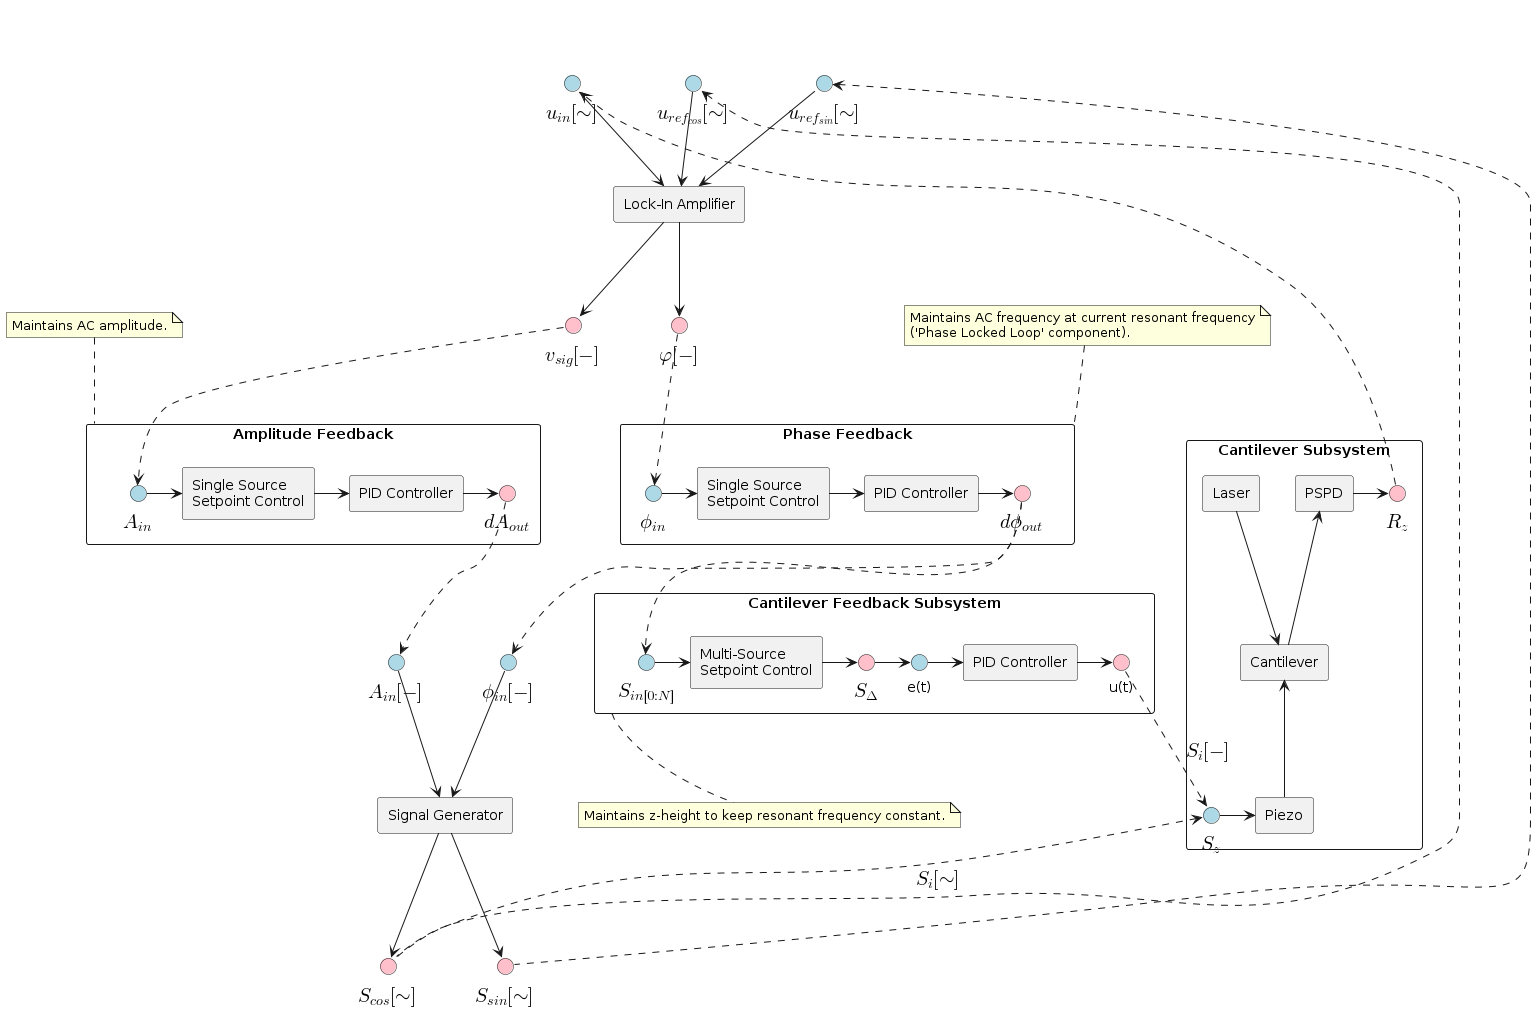
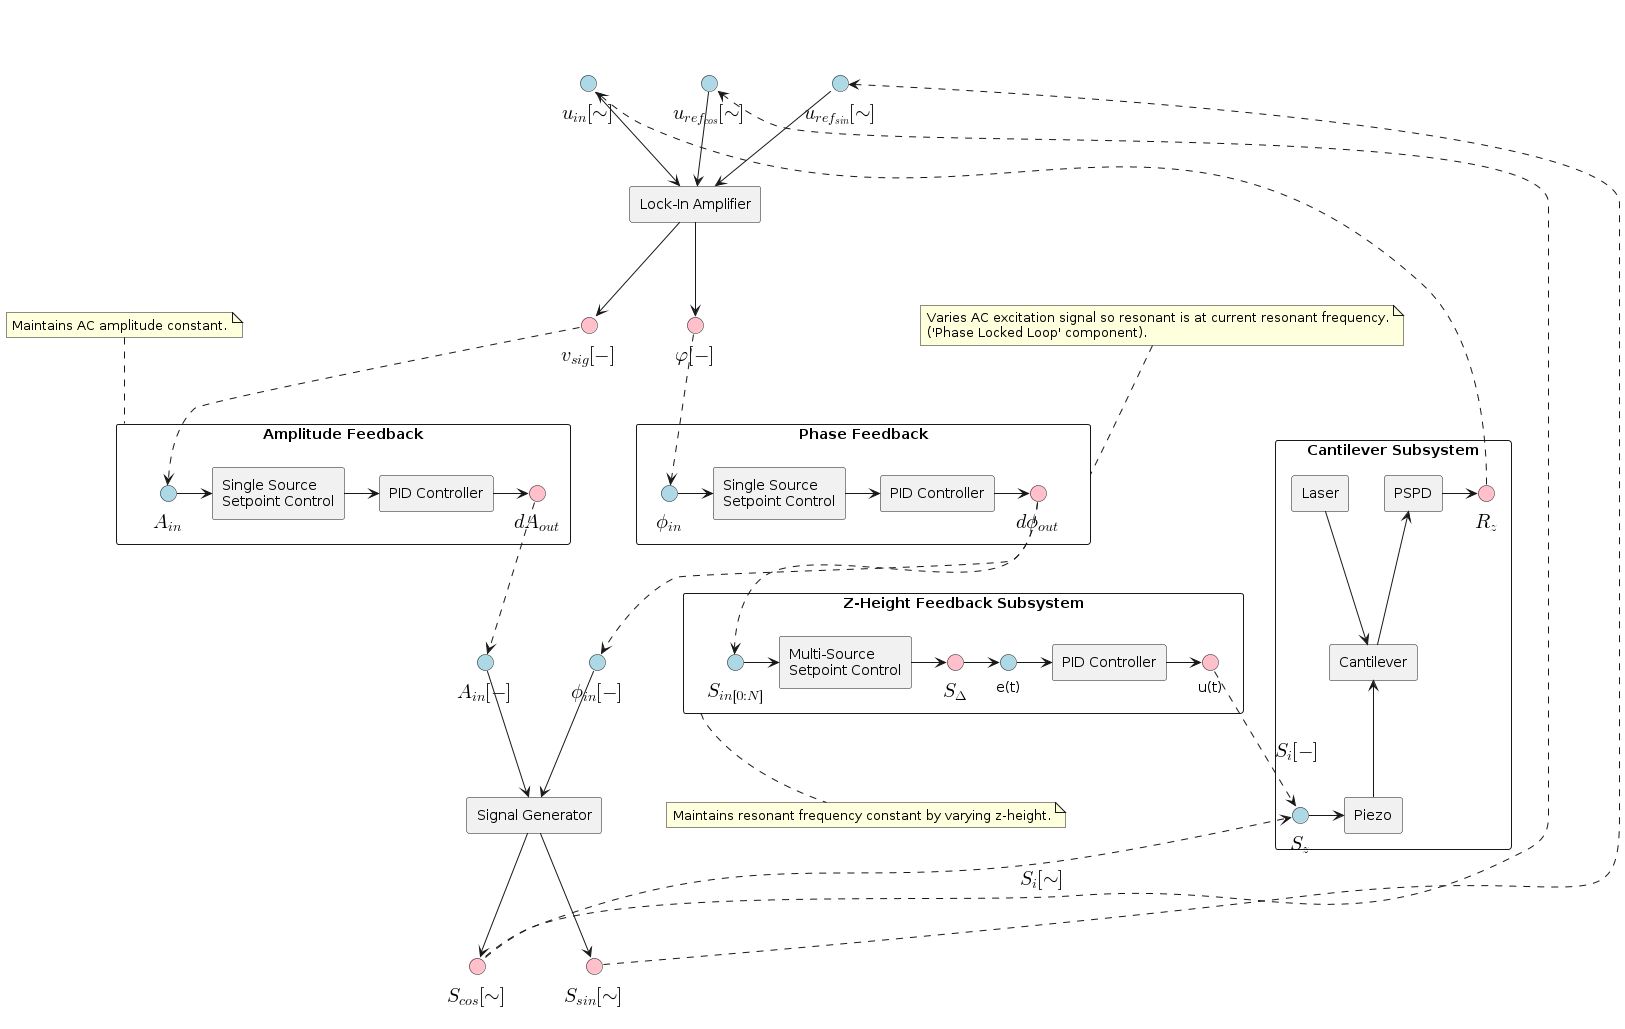
[fix] Fix erroneous am-afm / fm-afm diagrams
After discussing with Wyatt at the lab, I realized that my
diagrams explaining am-afm and fm-afm are factually incorrect!

I have updated the diagrams accordingly.

Note also that afm_components.puml/png and contact_mode.png are changed,
as I renamed 'Cantilever Feedback Subsystem' to 'Z-Height Feedback
Subsystem',to be more explicit.

diff --git a/afm_spm_components/afm_spm_components.html b/afm_spm_components/afm_spm_components.html
@@ -3,7 +3,7 @@
 "http://www.w3.org/TR/xhtml1/DTD/xhtml1-strict.dtd">
 <html xmlns="http://www.w3.org/1999/xhtml" lang="en" xml:lang="en">
 <head>
-<!-- 2023-06-21 Wed 19:12 -->
+<!-- 2023-06-23 Fri 12:33 -->
 <meta http-equiv="Content-Type" content="text/html;charset=utf-8" />
 <meta name="viewport" content="width=device-width, initial-scale=1" />
 <title>AFM / SPM Components</title>
@@ -201,81 +201,81 @@
 <h2>Table of Contents</h2>
 <div id="text-table-of-contents" role="doc-toc">
 <ul>
-<li><a href="#org0d700a4">1. Overarching Diagram</a></li>
-<li><a href="#orgb31a342">2. Components</a>
+<li><a href="#orgd0c9f6c">1. Overarching Diagram</a></li>
+<li><a href="#org10e9f7b">2. Components</a>
 <ul>
-<li><a href="#org98d6e2f">2.1. Main Hardware</a>
+<li><a href="#org564ba27">2.1. Main Hardware</a>
 <ul>
-<li><a href="#org8c6b0eb">2.1.1. Cantilever Subsystem</a></li>
-<li><a href="#orgced6271">2.1.2. Scanning Subsystem</a></li>
+<li><a href="#orgdcdb55a">2.1.1. Cantilever Subsystem</a></li>
+<li><a href="#org00f0527">2.1.2. Scanning Subsystem</a></li>
 </ul>
 </li>
-<li><a href="#org916ba15">2.2. Dynamic Mode Components</a>
+<li><a href="#orgbf97ab6">2.2. Dynamic Mode Components</a>
 <ul>
-<li><a href="#org9d37b53">2.2.1. Signal Generator</a></li>
-<li><a href="#orgba023c9">2.2.2. Lock-In Amplifier</a></li>
+<li><a href="#org85e1187">2.2.1. Signal Generator</a></li>
+<li><a href="#orgd804b80">2.2.2. Lock-In Amplifier</a></li>
 </ul>
 </li>
-<li><a href="#org2e6e4f8">2.3. Feedback Subsystem</a>
+<li><a href="#orge288b0b">2.3. Feedback Subsystem</a>
 <ul>
-<li><a href="#org7678f9c">2.3.1. Multi-Source Setpoint Control</a></li>
-<li><a href="#org5351966">2.3.2. PID Controller</a></li>
-</ul>
-</li>
-</ul>
-</li>
-<li><a href="#orgd86ce3a">3. AFM / SPM Setups</a>
-<ul>
-<li><a href="#org90de4bc">3.1. Contact Modes</a></li>
-<li><a href="#org46f7e98">3.2. Dynamic Modes</a>
-<ul>
-<li><a href="#orgdd3279a">3.2.1. AM-AFM - Amplitude Modulation</a></li>
-<li><a href="#orgf3f31a3">3.2.2. FM-AFM - Frequency Modulation</a></li>
+<li><a href="#org8a05077">2.3.1. Multi-Source Setpoint Control</a></li>
+<li><a href="#orgaa43725">2.3.2. PID Controller</a></li>
 </ul>
 </li>
 </ul>
 </li>
-<li><a href="#org1f853e4">4. Full Table of Parameters</a></li>
+<li><a href="#orgc2e8da6">3. AFM / SPM Setups</a>
+<ul>
+<li><a href="#orgcfc93e1">3.1. Contact Modes</a></li>
+<li><a href="#orgf2b986a">3.2. Dynamic Modes</a>
+<ul>
+<li><a href="#org5e3a853">3.2.1. AM-AFM - Amplitude Modulation</a></li>
+<li><a href="#org21d4ded">3.2.2. FM-AFM - Frequency Modulation</a></li>
+</ul>
+</li>
+</ul>
+</li>
+<li><a href="#orgf58a64f">4. Full Table of Parameters</a></li>
 </ul>
 </div>
 </div>
 
-<div id="outline-container-org0d700a4" class="outline-2">
-<h2 id="org0d700a4"><span class="section-number-2">1.</span> Overarching Diagram</h2>
+<div id="outline-container-orgd0c9f6c" class="outline-2">
+<h2 id="orgd0c9f6c"><span class="section-number-2">1.</span> Overarching Diagram</h2>
 <div class="outline-text-2" id="text-1">
 
-<div id="org719dade" class="figure">
-<p><img src="images/afm_components.png" alt="afm_components.png" width="1200" />
+<div id="orgee8eb64" class="figure">
+<p><img src="images/afm_components.png" alt="afm_components.png" width="960" />
 </p>
 </div>
 </div>
 </div>
 
-<div id="outline-container-orgb31a342" class="outline-2">
-<h2 id="orgb31a342"><span class="section-number-2">2.</span> Components</h2>
+<div id="outline-container-org10e9f7b" class="outline-2">
+<h2 id="org10e9f7b"><span class="section-number-2">2.</span> Components</h2>
 <div class="outline-text-2" id="text-2">
 </div>
-<div id="outline-container-org98d6e2f" class="outline-3">
-<h3 id="org98d6e2f"><span class="section-number-3">2.1.</span> Main Hardware</h3>
+<div id="outline-container-org564ba27" class="outline-3">
+<h3 id="org564ba27"><span class="section-number-3">2.1.</span> Main Hardware</h3>
 <div class="outline-text-3" id="text-2-1">
 </div>
-<div id="outline-container-org8c6b0eb" class="outline-4">
-<h4 id="org8c6b0eb"><span class="section-number-4">2.1.1.</span> Cantilever Subsystem</h4>
+<div id="outline-container-orgdcdb55a" class="outline-4">
+<h4 id="orgdcdb55a"><span class="section-number-4">2.1.1.</span> Cantilever Subsystem</h4>
 <div class="outline-text-4" id="text-2-1-1">
 </div>
-<div id="outline-container-orge339fdb" class="outline-5">
-<h5 id="orge339fdb"><span class="section-number-5">2.1.1.1.</span> Diagram</h5>
+<div id="outline-container-org2e189e4" class="outline-5">
+<h5 id="org2e189e4"><span class="section-number-5">2.1.1.1.</span> Diagram</h5>
 <div class="outline-text-5" id="text-2-1-1-1">
 
-<div id="orge7ebd4b" class="figure">
+<div id="org5f32578" class="figure">
 <p><img src="images/cantilever_subsystem.png" alt="cantilever_subsystem.png" />
 </p>
 </div>
 </div>
 </div>
 
-<div id="outline-container-org718eeb4" class="outline-5">
-<h5 id="org718eeb4"><span class="section-number-5">2.1.1.2.</span> Parameters</h5>
+<div id="outline-container-org6af0c4c" class="outline-5">
+<h5 id="org6af0c4c"><span class="section-number-5">2.1.1.2.</span> Parameters</h5>
 <div class="outline-text-5" id="text-2-1-1-2">
 <table border="2" cellspacing="0" cellpadding="6" rules="groups" frame="hsides">
 
@@ -353,23 +353,23 @@
 </div>
 </div>
 
-<div id="outline-container-orgced6271" class="outline-4">
-<h4 id="orgced6271"><span class="section-number-4">2.1.2.</span> Scanning Subsystem</h4>
+<div id="outline-container-org00f0527" class="outline-4">
+<h4 id="org00f0527"><span class="section-number-4">2.1.2.</span> Scanning Subsystem</h4>
 <div class="outline-text-4" id="text-2-1-2">
 </div>
-<div id="outline-container-org5f39cac" class="outline-5">
-<h5 id="org5f39cac"><span class="section-number-5">2.1.2.1.</span> Diagram</h5>
+<div id="outline-container-org945f708" class="outline-5">
+<h5 id="org945f708"><span class="section-number-5">2.1.2.1.</span> Diagram</h5>
 <div class="outline-text-5" id="text-2-1-2-1">
 
-<div id="org85af68c" class="figure">
+<div id="orge14c415" class="figure">
 <p><img src="images/scanning_subsystem.png" alt="scanning_subsystem.png" />
 </p>
 </div>
 </div>
 </div>
 
-<div id="outline-container-org83b5746" class="outline-5">
-<h5 id="org83b5746"><span class="section-number-5">2.1.2.2.</span> Parameters</h5>
+<div id="outline-container-orgf3bb041" class="outline-5">
+<h5 id="orgf3bb041"><span class="section-number-5">2.1.2.2.</span> Parameters</h5>
 <div class="outline-text-5" id="text-2-1-2-2">
 <table border="2" cellspacing="0" cellpadding="6" rules="groups" frame="hsides">
 
@@ -490,27 +490,27 @@
 </div>
 </div>
 </div>
-<div id="outline-container-org916ba15" class="outline-3">
-<h3 id="org916ba15"><span class="section-number-3">2.2.</span> Dynamic Mode Components</h3>
+<div id="outline-container-orgbf97ab6" class="outline-3">
+<h3 id="orgbf97ab6"><span class="section-number-3">2.2.</span> Dynamic Mode Components</h3>
 <div class="outline-text-3" id="text-2-2">
 </div>
-<div id="outline-container-org9d37b53" class="outline-4">
-<h4 id="org9d37b53"><span class="section-number-4">2.2.1.</span> Signal Generator</h4>
+<div id="outline-container-org85e1187" class="outline-4">
+<h4 id="org85e1187"><span class="section-number-4">2.2.1.</span> Signal Generator</h4>
 <div class="outline-text-4" id="text-2-2-1">
 </div>
-<div id="outline-container-orgaa4485c" class="outline-5">
-<h5 id="orgaa4485c"><span class="section-number-5">2.2.1.1.</span> Diagram</h5>
+<div id="outline-container-org6f672f8" class="outline-5">
+<h5 id="org6f672f8"><span class="section-number-5">2.2.1.1.</span> Diagram</h5>
 <div class="outline-text-5" id="text-2-2-1-1">
 
-<div id="orgaff490b" class="figure">
+<div id="org362a52f" class="figure">
 <p><img src="images/signal_generator.png" alt="signal_generator.png" />
 </p>
 </div>
 </div>
 </div>
 
-<div id="outline-container-orgd250c5f" class="outline-5">
-<h5 id="orgd250c5f"><span class="section-number-5">2.2.1.2.</span> Parameters</h5>
+<div id="outline-container-orgd223b86" class="outline-5">
+<h5 id="orgd223b86"><span class="section-number-5">2.2.1.2.</span> Parameters</h5>
 <div class="outline-text-5" id="text-2-2-1-2">
 <table border="2" cellspacing="0" cellpadding="6" rules="groups" frame="hsides">
 
@@ -545,23 +545,23 @@
 </div>
 </div>
 
-<div id="outline-container-orgba023c9" class="outline-4">
-<h4 id="orgba023c9"><span class="section-number-4">2.2.2.</span> Lock-In Amplifier</h4>
+<div id="outline-container-orgd804b80" class="outline-4">
+<h4 id="orgd804b80"><span class="section-number-4">2.2.2.</span> Lock-In Amplifier</h4>
 <div class="outline-text-4" id="text-2-2-2">
 </div>
-<div id="outline-container-org71312d3" class="outline-5">
-<h5 id="org71312d3"><span class="section-number-5">2.2.2.1.</span> Diagram</h5>
+<div id="outline-container-orgc4c8b99" class="outline-5">
+<h5 id="orgc4c8b99"><span class="section-number-5">2.2.2.1.</span> Diagram</h5>
 <div class="outline-text-5" id="text-2-2-2-1">
 
-<div id="org0c1aa44" class="figure">
+<div id="org87cbe02" class="figure">
 <p><img src="images/lockin.png" alt="lockin.png" />
 </p>
 </div>
 </div>
 </div>
 
-<div id="outline-container-orgd59cda9" class="outline-5">
-<h5 id="orgd59cda9"><span class="section-number-5">2.2.2.2.</span> Parameters</h5>
+<div id="outline-container-org953baa2" class="outline-5">
+<h5 id="org953baa2"><span class="section-number-5">2.2.2.2.</span> Parameters</h5>
 <div class="outline-text-5" id="text-2-2-2-2">
 <table border="2" cellspacing="0" cellpadding="6" rules="groups" frame="hsides">
 
@@ -597,27 +597,27 @@
 </div>
 </div>
 
-<div id="outline-container-org2e6e4f8" class="outline-3">
-<h3 id="org2e6e4f8"><span class="section-number-3">2.3.</span> Feedback Subsystem</h3>
+<div id="outline-container-orge288b0b" class="outline-3">
+<h3 id="orge288b0b"><span class="section-number-3">2.3.</span> Feedback Subsystem</h3>
 <div class="outline-text-3" id="text-2-3">
 </div>
-<div id="outline-container-org7678f9c" class="outline-4">
-<h4 id="org7678f9c"><span class="section-number-4">2.3.1.</span> Multi-Source Setpoint Control</h4>
+<div id="outline-container-org8a05077" class="outline-4">
+<h4 id="org8a05077"><span class="section-number-4">2.3.1.</span> Multi-Source Setpoint Control</h4>
 <div class="outline-text-4" id="text-2-3-1">
 </div>
-<div id="outline-container-org1939718" class="outline-5">
-<h5 id="org1939718"><span class="section-number-5">2.3.1.1.</span> Diagram</h5>
+<div id="outline-container-orgf50a731" class="outline-5">
+<h5 id="orgf50a731"><span class="section-number-5">2.3.1.1.</span> Diagram</h5>
 <div class="outline-text-5" id="text-2-3-1-1">
 
-<div id="orgfe59c5a" class="figure">
+<div id="org92b58c8" class="figure">
 <p><img src="images/source_mixer.png" alt="source_mixer.png" />
 </p>
 </div>
 </div>
 </div>
 
-<div id="outline-container-org0a423de" class="outline-5">
-<h5 id="org0a423de"><span class="section-number-5">2.3.1.2.</span> Parameters</h5>
+<div id="outline-container-org290f5c4" class="outline-5">
+<h5 id="org290f5c4"><span class="section-number-5">2.3.1.2.</span> Parameters</h5>
 <div class="outline-text-5" id="text-2-3-1-2">
 <table border="2" cellspacing="0" cellpadding="6" rules="groups" frame="hsides">
 
@@ -710,23 +710,23 @@
 </div>
 </div>
 
-<div id="outline-container-org5351966" class="outline-4">
-<h4 id="org5351966"><span class="section-number-4">2.3.2.</span> PID Controller</h4>
+<div id="outline-container-orgaa43725" class="outline-4">
+<h4 id="orgaa43725"><span class="section-number-4">2.3.2.</span> PID Controller</h4>
 <div class="outline-text-4" id="text-2-3-2">
 </div>
-<div id="outline-container-orgce56100" class="outline-5">
-<h5 id="orgce56100"><span class="section-number-5">2.3.2.1.</span> Diagram</h5>
+<div id="outline-container-org8b69481" class="outline-5">
+<h5 id="org8b69481"><span class="section-number-5">2.3.2.1.</span> Diagram</h5>
 <div class="outline-text-5" id="text-2-3-2-1">
 
-<div id="org57fda17" class="figure">
+<div id="orgbf3bd1a" class="figure">
 <p><img src="images/pid.png" alt="pid.png" />
 </p>
 </div>
 </div>
 </div>
 
-<div id="outline-container-org5c08950" class="outline-5">
-<h5 id="org5c08950"><span class="section-number-5">2.3.2.2.</span> Parameters</h5>
+<div id="outline-container-orgdf7fdfb" class="outline-5">
+<h5 id="orgdf7fdfb"><span class="section-number-5">2.3.2.2.</span> Parameters</h5>
 <div class="outline-text-5" id="text-2-3-2-2">
 <table border="2" cellspacing="0" cellpadding="6" rules="groups" frame="hsides">
 
@@ -777,51 +777,59 @@
 </div>
 </div>
 
-<div id="outline-container-orgd86ce3a" class="outline-2">
-<h2 id="orgd86ce3a"><span class="section-number-2">3.</span> AFM / SPM Setups</h2>
+<div id="outline-container-orgc2e8da6" class="outline-2">
+<h2 id="orgc2e8da6"><span class="section-number-2">3.</span> AFM / SPM Setups</h2>
 <div class="outline-text-2" id="text-3">
 </div>
-<div id="outline-container-org90de4bc" class="outline-3">
-<h3 id="org90de4bc"><span class="section-number-3">3.1.</span> Contact Modes</h3>
+<div id="outline-container-orgcfc93e1" class="outline-3">
+<h3 id="orgcfc93e1"><span class="section-number-3">3.1.</span> Contact Modes</h3>
 <div class="outline-text-3" id="text-3-1">
 
-<div id="orgd2ba476" class="figure">
+<div id="org369ca18" class="figure">
 <p><img src="images/contact_mode.png" alt="contact_mode.png" />
 </p>
 </div>
 </div>
 </div>
 
-<div id="outline-container-org46f7e98" class="outline-3">
-<h3 id="org46f7e98"><span class="section-number-3">3.2.</span> Dynamic Modes</h3>
+<div id="outline-container-orgf2b986a" class="outline-3">
+<h3 id="orgf2b986a"><span class="section-number-3">3.2.</span> Dynamic Modes</h3>
 <div class="outline-text-3" id="text-3-2">
 </div>
-<div id="outline-container-orgdd3279a" class="outline-4">
-<h4 id="orgdd3279a"><span class="section-number-4">3.2.1.</span> AM-AFM - Amplitude Modulation</h4>
+<div id="outline-container-org5e3a853" class="outline-4">
+<h4 id="org5e3a853"><span class="section-number-4">3.2.1.</span> AM-AFM - Amplitude Modulation</h4>
 <div class="outline-text-4" id="text-3-2-1">
 
-<div id="orgda7f4ae" class="figure">
-<p><img src="images/am-afm.png" alt="am-afm.png" width="1200" />
+<div id="orgd9efe91" class="figure">
+<p><img src="images/am-afm.png" alt="am-afm.png" width="960" />
 </p>
 </div>
 </div>
 </div>
 
-<div id="outline-container-orgf3f31a3" class="outline-4">
-<h4 id="orgf3f31a3"><span class="section-number-4">3.2.2.</span> FM-AFM - Frequency Modulation</h4>
+<div id="outline-container-org21d4ded" class="outline-4">
+<h4 id="org21d4ded"><span class="section-number-4">3.2.2.</span> FM-AFM - Frequency Modulation</h4>
 <div class="outline-text-4" id="text-3-2-2">
 
-<div id="orgba58005" class="figure">
+<div id="org4301742" class="figure">
 <p><img src="images/fm-afm.png" alt="fm-afm.png" width="960" />
 </p>
 </div>
+
+<p>
+Notes:
+</p>
+<ul class="org-ul">
+<li>We require the PLL <b>and</b> z-height feedback because they function at different frequencies: PLL at ~100 kHz, z-height at ~1 kHz.</li>
+<li>So: the PLL maintains the signal on resonance <b>much more quickly</b> than the z-height maintains the resonant frequency constant.</li>
+</ul>
 </div>
 </div>
 </div>
 </div>
 
-<div id="outline-container-org1f853e4" class="outline-2">
-<h2 id="org1f853e4"><span class="section-number-2">4.</span> Full Table of Parameters</h2>
+<div id="outline-container-orgf58a64f" class="outline-2">
+<h2 id="orgf58a64f"><span class="section-number-2">4.</span> Full Table of Parameters</h2>
 <div class="outline-text-2" id="text-4">
 <table border="2" cellspacing="0" cellpadding="6" rules="groups" frame="hsides">
 
@@ -1328,7 +1336,7 @@
 </div>
 <div id="postamble" class="status">
 <p class="author">Author: Nick Sullivan</p>
-<p class="date">Created: 2023-06-21 Wed 19:12</p>
+<p class="date">Created: 2023-06-23 Fri 12:33</p>
 </div>
 </body>
 </html>
